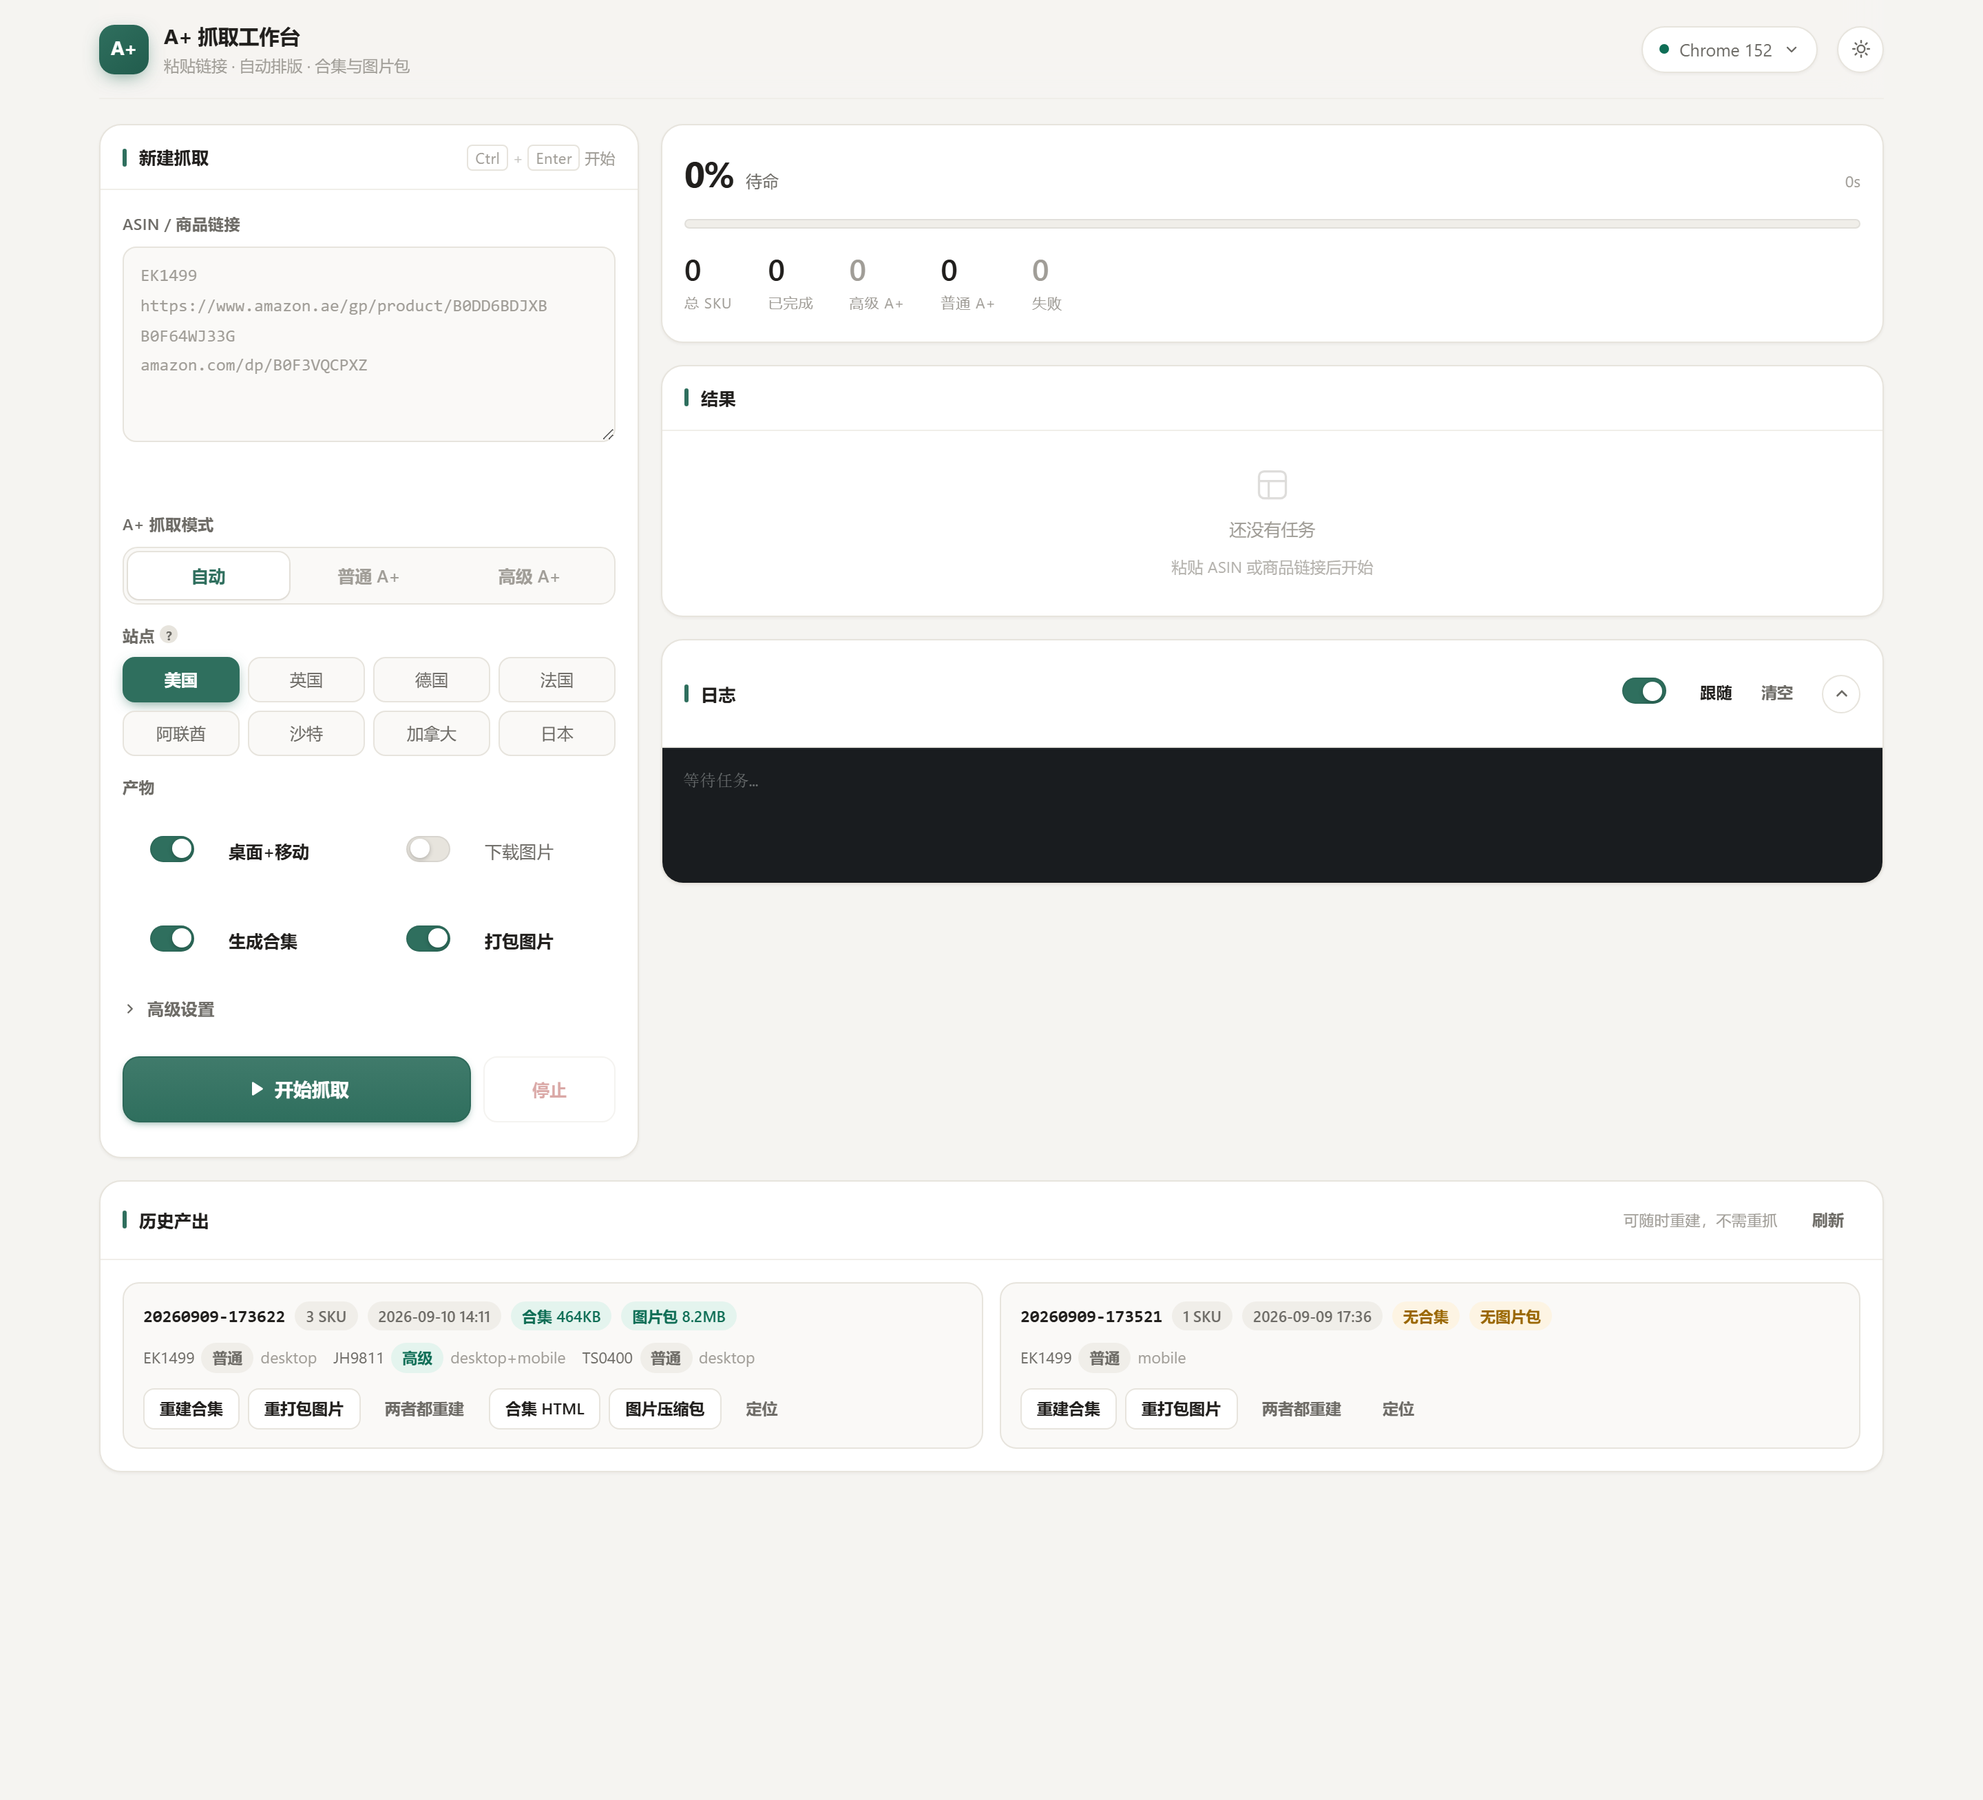
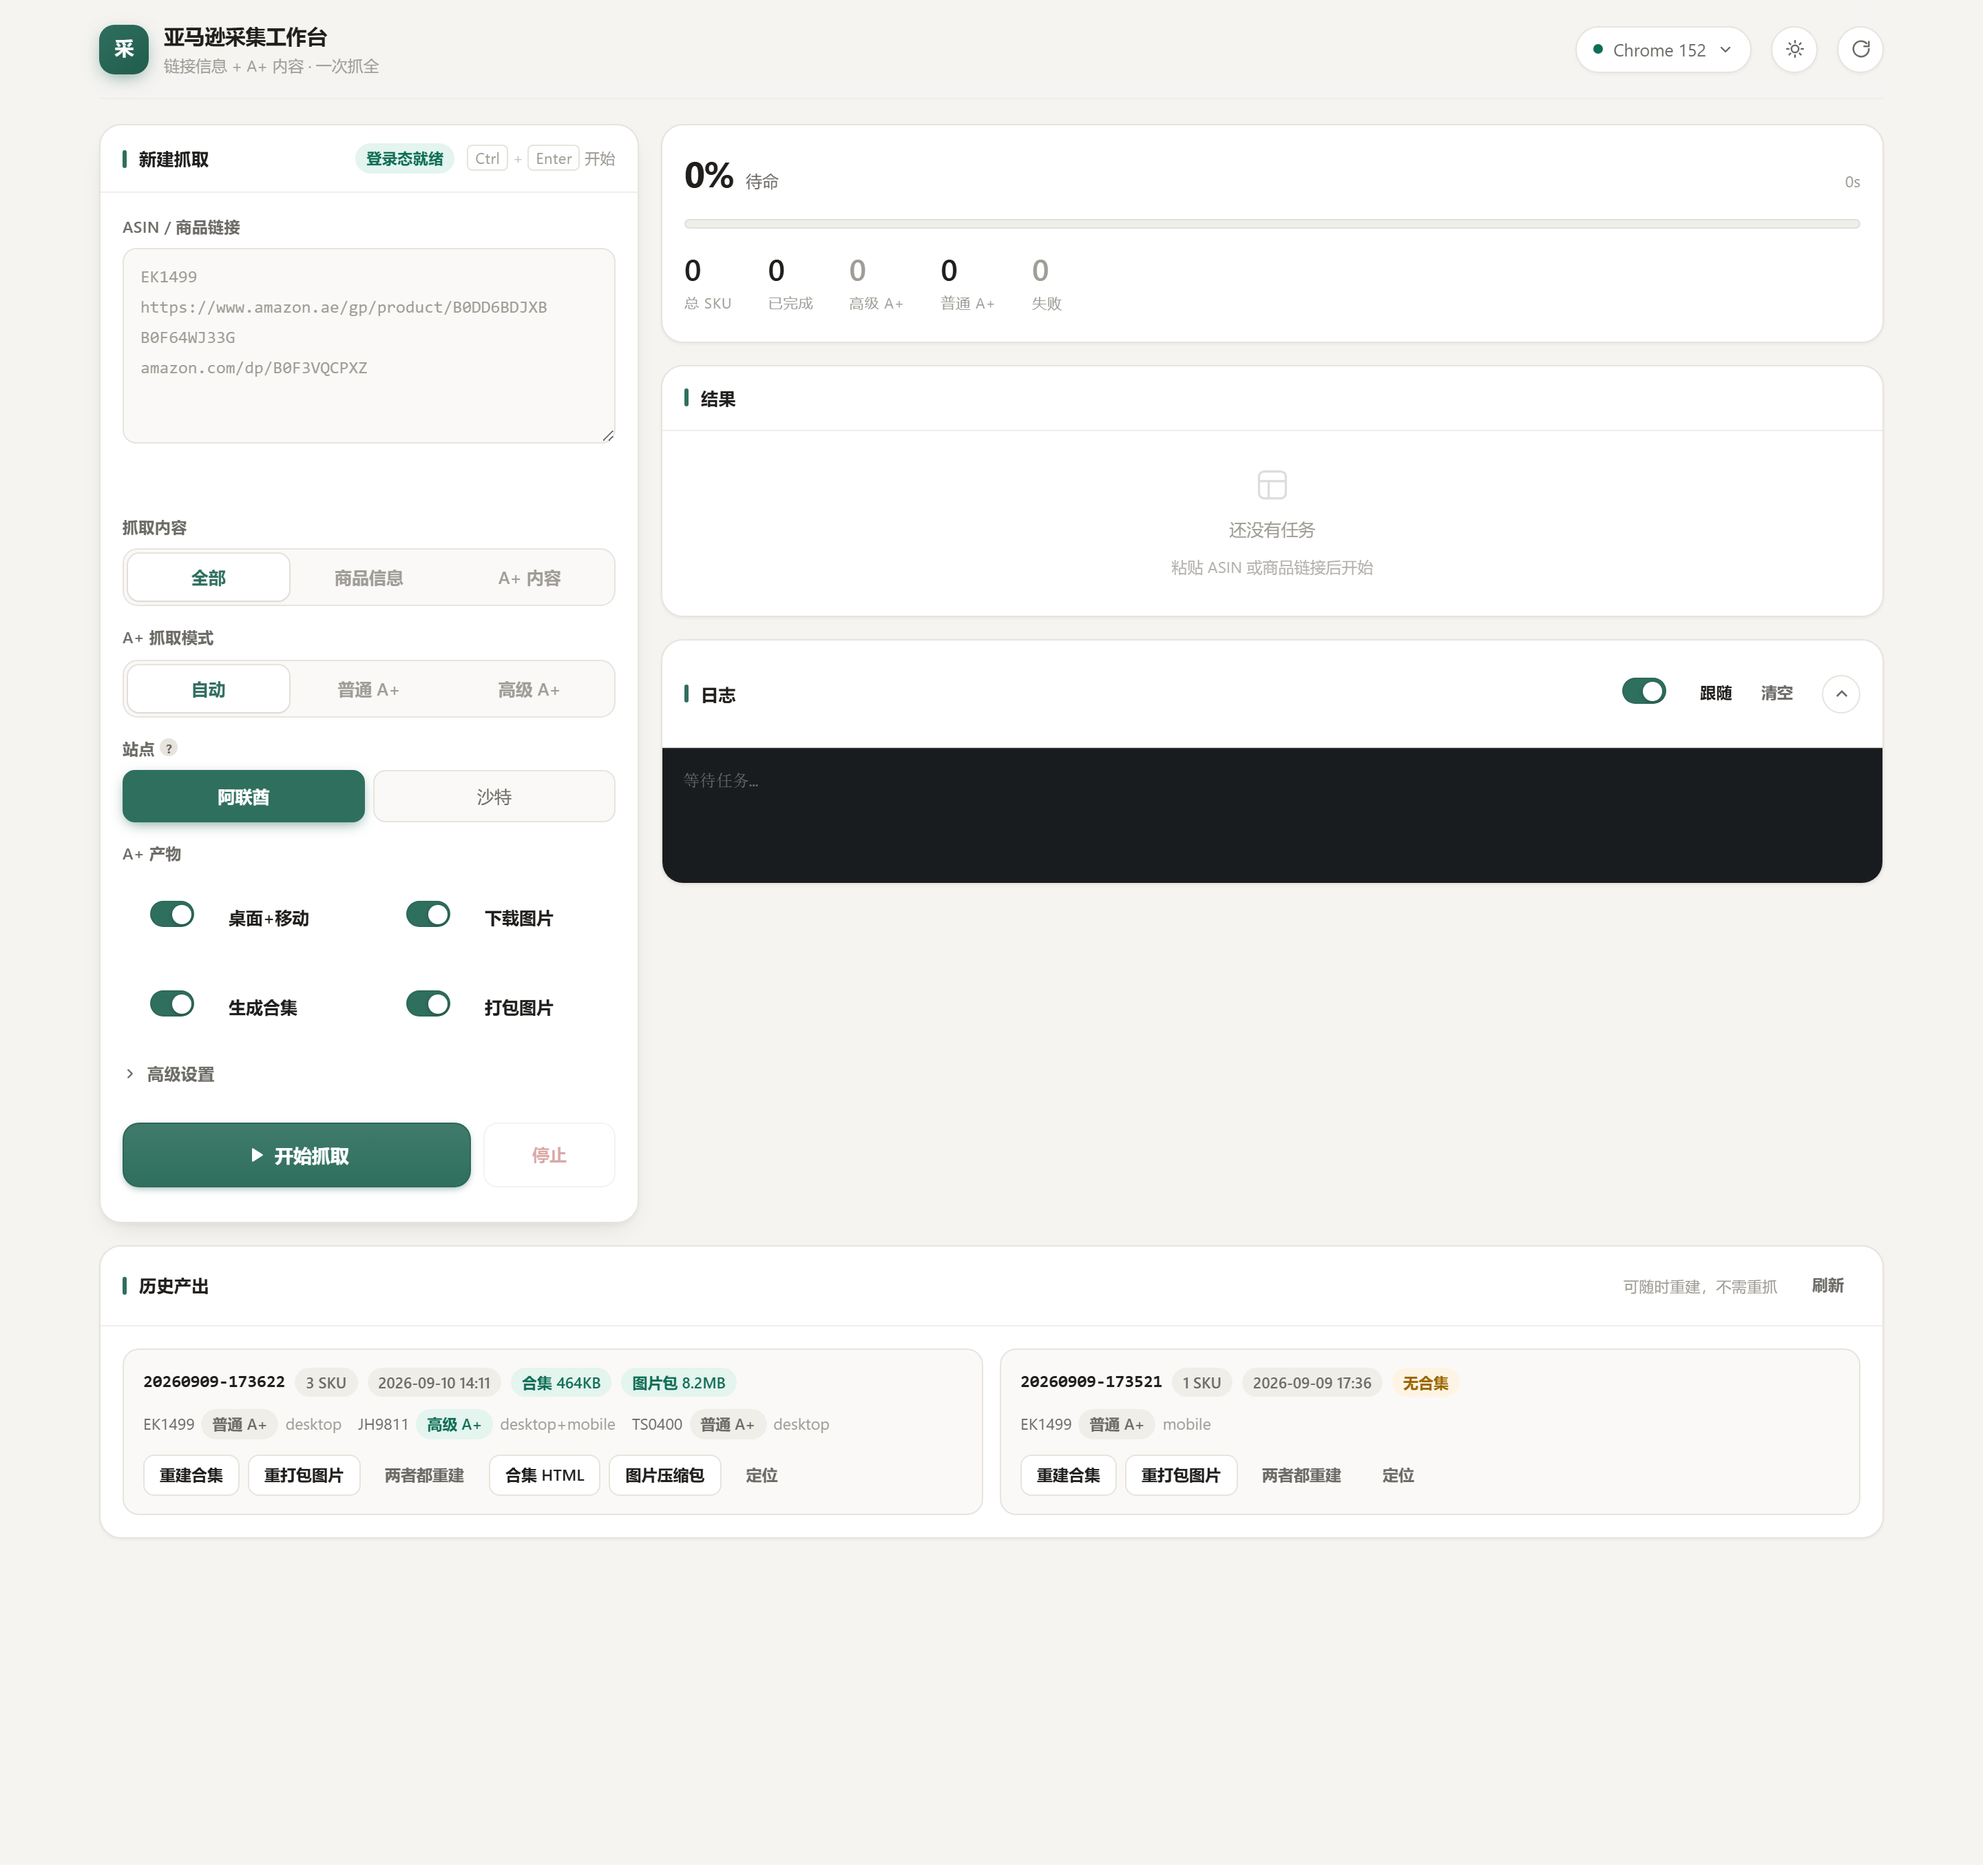
release v1.2.1

diff --git a/tray.py b/tray.py
@@ -26,7 +26,28 @@ import version as V  # noqa: E402
 
 PORT = int(os.environ.get("APLUS_PORT", "8788"))
 URL = f"http://127.0.0.1:{PORT}/"
-LOG_FILE = Path(os.environ.get("TEMP") or ".") / "aplus_workbench.log"
+
+
+def _pick_log_dir() -> Path:
+    """日志目录：优先 exe 同级的 logs/，不可写则退回 %TEMP%"""
+    cands = []
+    if getattr(sys, "frozen", False):
+        cands.append(Path(sys.executable).resolve().parent / "logs")
+    cands.append(HERE / "logs")
+    cands.append(Path(os.environ.get("TEMP") or ".") / "AmazonWorkbench")
+    for d in cands:
+        try:
+            d.mkdir(parents=True, exist_ok=True)
+            with open(d / "workbench.log", "a", encoding="utf-8"):
+                pass
+            return d
+        except Exception:
+            continue
+    return Path(os.environ.get("TEMP") or ".")
+
+
+LOG_DIR = _pick_log_dir()
+LOG_FILE = LOG_DIR / "workbench.log"
 
 
 def log(msg: str):
@@ -38,12 +59,43 @@ def log(msg: str):
         pass
 
 
+def ensure_std_streams():
+    """修掉「无控制台打包」的致命坑。
+
+    console=False 打包后 sys.stdout / sys.stderr 是 None，而 uvicorn 的
+    ColourizedFormatter 初始化时会调 sys.stdout.isatty() → AttributeError，
+    被 logging.config.dictConfig 包成
+    ValueError: Unable to configure formatter 'default'，服务根本起不来。
+
+    这里把它们换成真实可写的文件流，顺便把服务日志落到 logs/server.log。
+    """
+    if sys.stdout is not None and sys.stderr is not None:
+        return
+    stream = None
+    try:
+        LOG_DIR.mkdir(parents=True, exist_ok=True)
+        stream = open(LOG_DIR / "server.log", "a", encoding="utf-8",
+                      errors="replace", buffering=1)
+    except Exception:
+        try:
+            stream = open(os.devnull, "w", encoding="utf-8")
+        except Exception:
+            return
+    if sys.stdout is None:
+        sys.stdout = stream
+    if sys.stderr is None:
+        sys.stderr = stream
+
+
 def _excepthook(exc_type, exc, tb):
     import traceback
-    log("UNCAUGHT: " + "".join(traceback.format_exception(exc_type, exc, tb)))
+    text = "".join(traceback.format_exception(exc_type, exc, tb))
+    log("UNCAUGHT:\n" + text)
     try:
         import ctypes
-        ctypes.windll.user32.MessageBoxW(0, f"程序出错：\n{exc}", V.APP_NAME, 0x10)
+        ctypes.windll.user32.MessageBoxW(
+            0, f"程序出错：\n{_short_tb(text)}\n\n日志：{LOG_FILE}",
+            V.APP_NAME, 0x10)
     except Exception:
         pass
 
@@ -80,18 +132,52 @@ def already_running() -> bool:
 # ---------------------------------------------------------------- 服务线程
 SERVER_ERROR: list = []
 
+# 不用 uvicorn 内置的 LOGGING_CONFIG：它引用 uvicorn.logging.ColourizedFormatter，
+# 该类初始化会读 sys.stdout.isatty()，在无控制台环境里直接抛异常。
+# 这里用纯标准库 Formatter，不碰 isatty。
+UVICORN_LOG_CONFIG = {
+    "version": 1,
+    "disable_existing_loggers": False,
+    "formatters": {
+        "plain": {"format": "%(asctime)s %(levelname)s %(name)s: %(message)s"},
+    },
+    "handlers": {
+        "console": {
+            "class": "logging.StreamHandler",
+            "formatter": "plain",
+            "stream": "ext://sys.stderr",
+        },
+    },
+    "loggers": {
+        "uvicorn": {"handlers": ["console"], "level": "INFO", "propagate": False},
+        "uvicorn.error": {"handlers": ["console"], "level": "INFO", "propagate": False},
+        "uvicorn.access": {"handlers": ["console"], "level": "INFO", "propagate": False},
+    },
+}
+
+
+def _short_tb(tb: str, n: int = 5) -> str:
+    lines = [l for l in (tb or "").strip().splitlines() if l.strip()]
+    return "\n".join(lines[-n:])
+
 
 def start_server():
     try:
         import uvicorn
         import webapp
-        log(f"starting server on {URL} (frozen={getattr(sys,'frozen',False)})")
-        uvicorn.run(webapp.app, host="127.0.0.1", port=PORT, log_level="warning")
+        log(f"starting server on {URL} (frozen={getattr(sys, 'frozen', False)}, "
+            f"uvicorn={getattr(uvicorn, '__version__', '?')}, "
+            f"stdout={'None' if sys.stdout is None else 'ok'})")
+        cfg = uvicorn.Config(webapp.app, host="127.0.0.1", port=PORT,
+                             log_config=UVICORN_LOG_CONFIG, log_level="info",
+                             access_log=False)
+        uvicorn.Server(cfg).run()
     except Exception as e:                      # 端口占用 / 依赖缺失
-        log("server error: " + repr(e))
         import traceback
-        log(traceback.format_exc())
-        SERVER_ERROR.append(str(e))
+        tb = traceback.format_exc()
+        log("server error: " + repr(e))
+        log(tb)
+        SERVER_ERROR.append(_short_tb(tb))
 
 
 # ---------------------------------------------------------------- 托盘
@@ -195,6 +281,7 @@ def run_tray():
 
 # ---------------------------------------------------------------- 入口
 def main():
+    ensure_std_streams()        # 必须最先做：无控制台环境下补 sys.stdout / sys.stderr
     prepare_env()
 
     if already_running():
@@ -213,11 +300,14 @@ def main():
 
     if SERVER_ERROR:
         msg = SERVER_ERROR[0]
+        log("启动失败，弹窗提示用户")
         try:
             import ctypes
-            ctypes.windll.user32.MessageBoxW(0, f"服务启动失败：\n{msg}", V.APP_NAME, 0x10)
+            ctypes.windll.user32.MessageBoxW(
+                0, f"服务启动失败：\n{msg}\n\n详细日志：{LOG_FILE}",
+                V.APP_NAME, 0x10)
         except Exception:
-            print("服务启动失败:", msg)
+            pass
         return
 
     open_front()
@@ -225,7 +315,7 @@ def main():
         run_tray()
     except Exception as e:
         # 托盘不可用（缺 pystray / 无桌面）时，退化为纯服务常驻
-        print(f"[warn] 托盘启动失败：{e}")
+        log(f"托盘启动失败：{e}")
         while True:
             time.sleep(3600)
 

diff --git a/webapp.py b/webapp.py
@@ -1070,7 +1070,15 @@ app.mount("/out", StaticFiles(directory=str(WEB_OUT)), name="out")
 
 if __name__ == "__main__":
     import uvicorn
+    # 无控制台环境（pythonw / 打包）下 sys.stdout / sys.stderr 为 None，
+    # uvicorn 的彩色格式化器会调 isatty() 崩掉，先补兜底流
+    if sys.stdout is None or sys.stderr is None:
+        _sink = open(os.devnull, "w", encoding="utf-8")
+        if sys.stdout is None:
+            sys.stdout = _sink
+        if sys.stderr is None:
+            sys.stderr = _sink
     url = f"http://127.0.0.1:{PORT}"
-    print(f"\n  A+ 抓取工作台已启动 -> {url}\n")
+    print(f"\n  {V.APP_NAME} 已启动 -> {url}\n")
     threading.Timer(1.2, lambda: (os.startfile(url) if sys.platform == "win32" else None)).start()
     uvicorn.run(app, host="127.0.0.1", port=PORT, log_level="warning")

diff --git a/version.py b/version.py
@@ -1,7 +1,7 @@
 # -*- coding: utf-8 -*-
 """版本与更新源配置 —— 发版时只改这里"""
 
-__version__ = "1.2.0"
+__version__ = "1.2.1"
 APP_NAME = "亚马逊采集工作台"
 
 # GitHub 仓库（owner/repo）。更新检查走它的 Release。

diff --git a/RELEASE_NOTES.md b/RELEASE_NOTES.md
@@ -1,3 +1,25 @@
+## v1.2.1
+
+**修复：exe 双击后报「服务启动失败：Unable to configure formatter 'default'」** —— 已彻底解决，直接换用这个版本即可。
+
+### 修复
+
+- 🔴 **exe 启动即失败**。无控制台打包（`console=False`）后 `sys.stdout` / `sys.stderr` 是 `None`，而 uvicorn 的日志格式化器初始化时会执行 `sys.stdout.isatty()`，抛出的 `AttributeError` 被 `logging.config` 包成了 `Unable to configure formatter 'default'`，服务根本起不来。源码运行（有控制台）不会触发，所以之前测试没暴露。
+  - 现在启动时先把 `sys.stdout` / `sys.stderr` 补成真实可写的文件流
+  - 同时换成不读 `isatty()` 的标准库日志配置，双保险
+- 报错弹窗与异常兜底现在会显示**出错位置摘要**并给出日志文件路径，不再只有一句干巴巴的消息
+
+### 新增
+
+- **运行日志**：`logs/workbench.log`（程序日志）与 `logs/server.log`（服务输出）落在 exe 同目录；该目录不可写时自动退到 `%TEMP%\AmazonWorkbench\`。以后出问题直接把这两个文件发我就能定位
+
+### 运行要求
+
+- Windows 10 / 11 64 位
+- 首次使用请在「环境」面板点一次「安装 / 更新内核」（约 150 MB，只需一次）
+
+---
+
 ## v1.2.0
 
 **合并为一个程序**：链接信息抓取（原来的采集器）+ A+ 内容抓取，统一入口、统一 exe。
